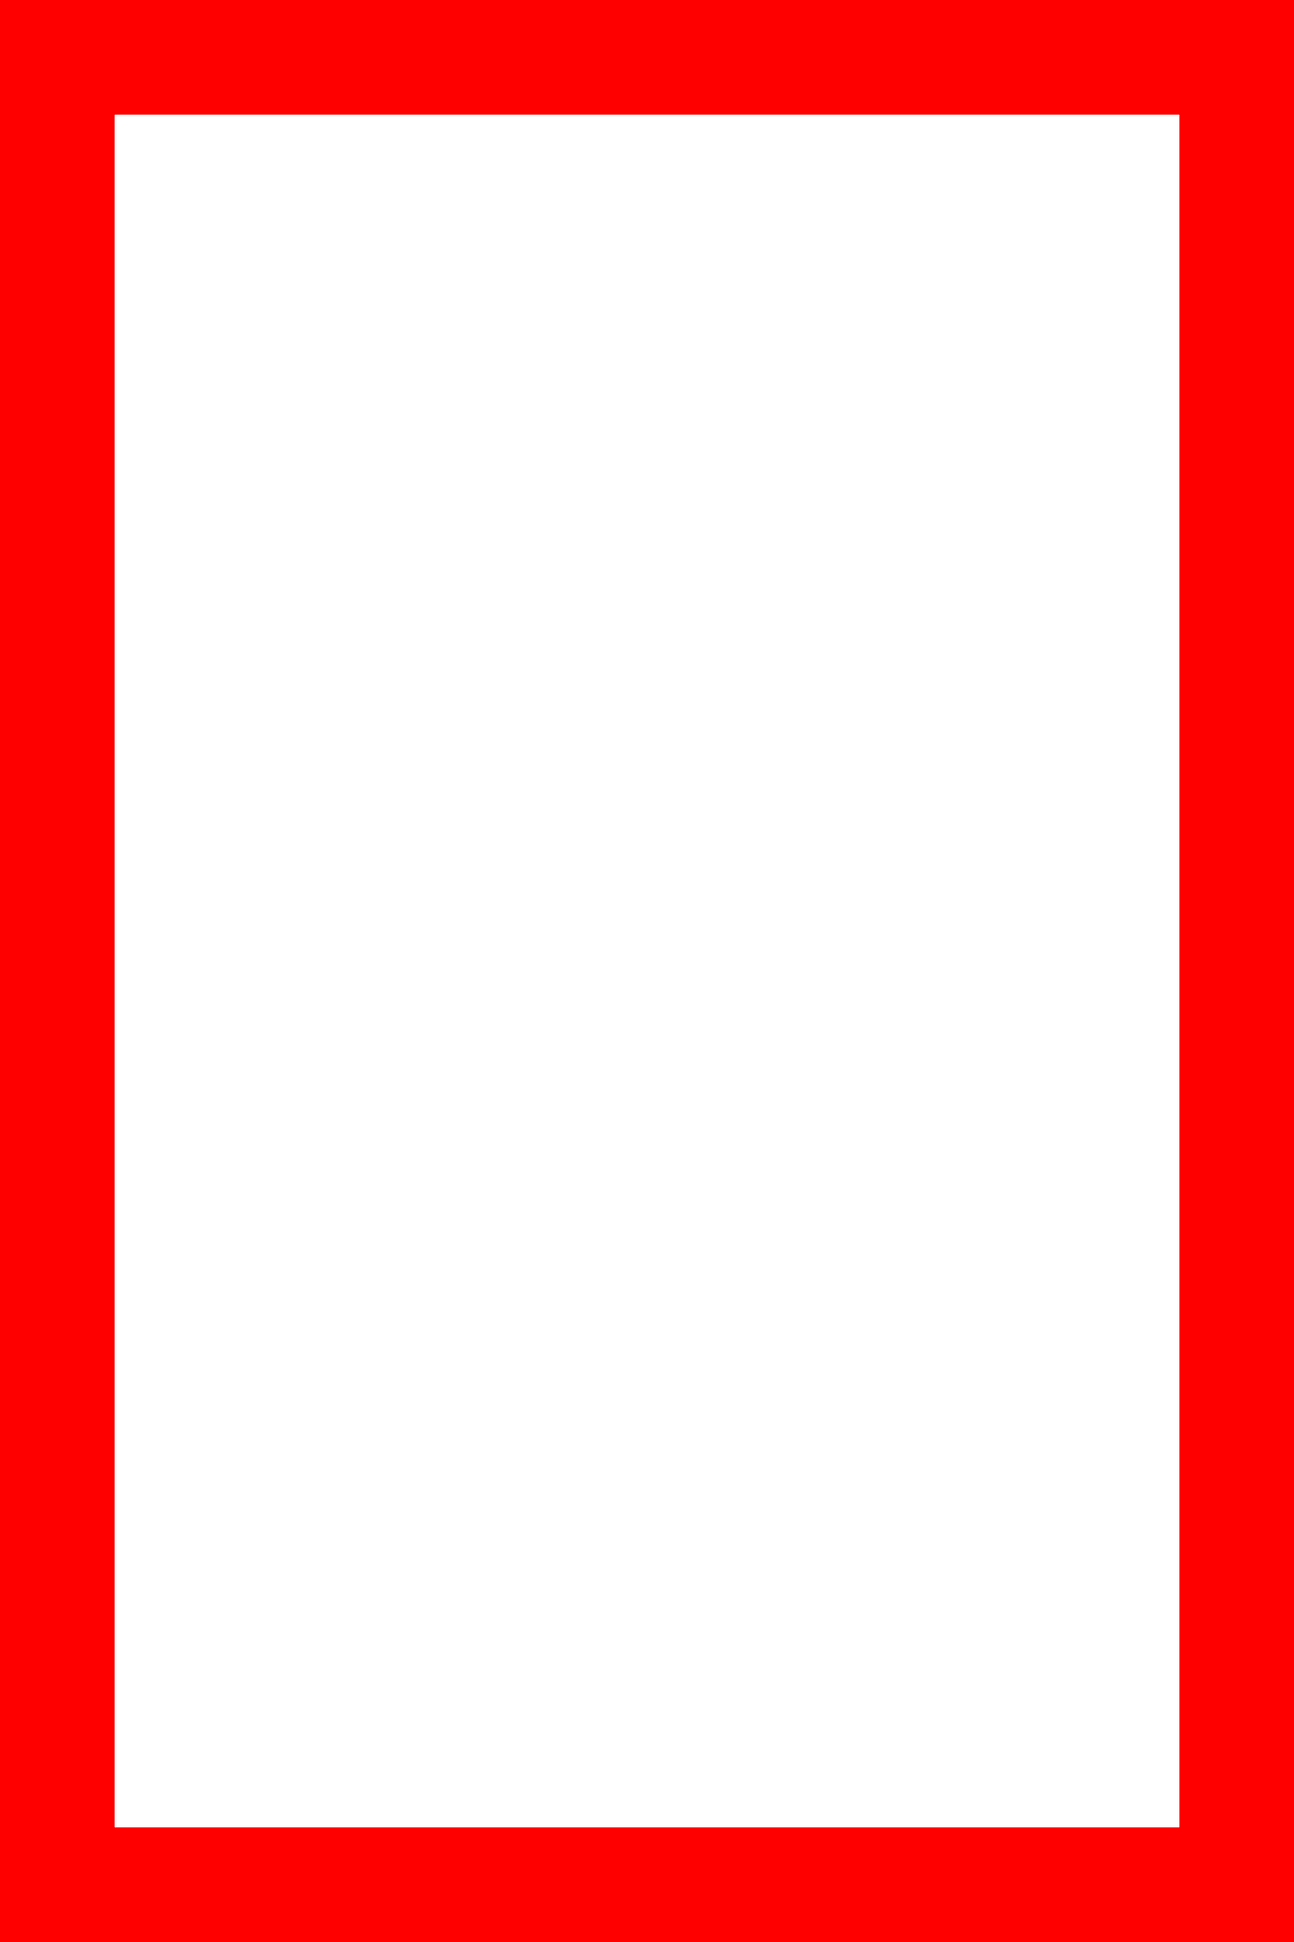
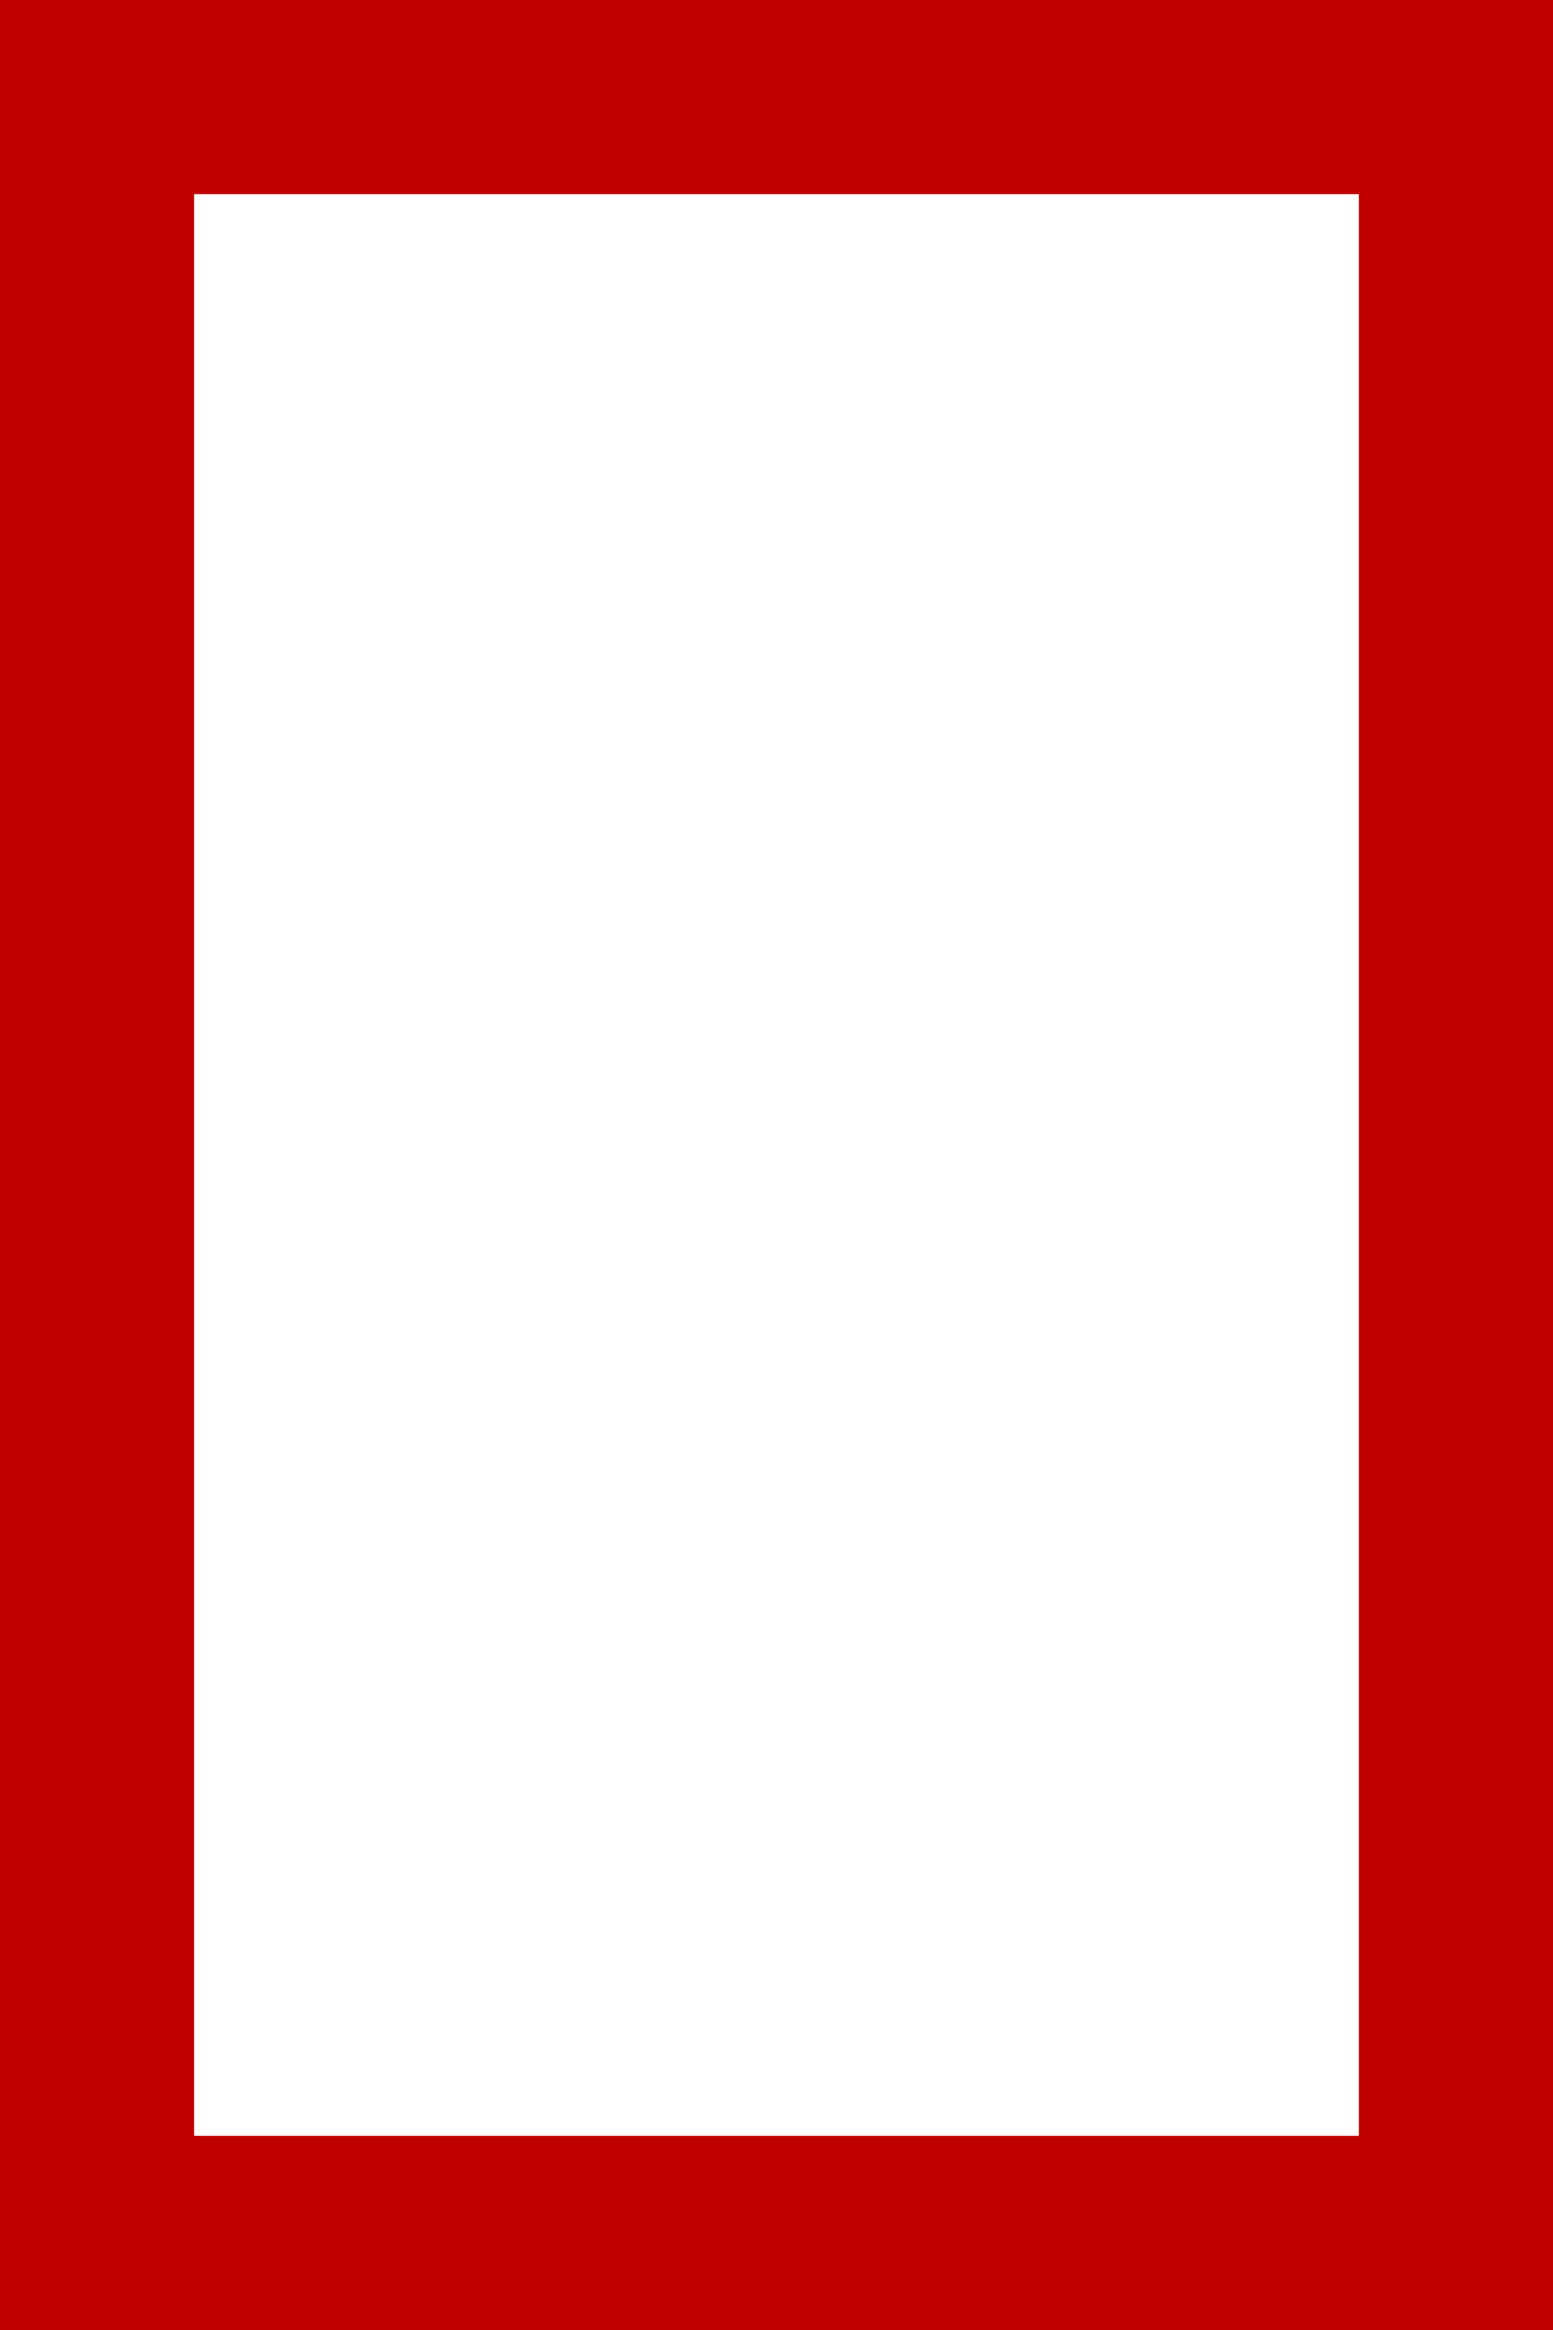
フレーム選択機能実装

diff --git a/src/components/modules/CameraApp.tsx b/src/components/modules/CameraApp.tsx
@@ -9,7 +9,14 @@ import Modal from '@mui/material/Modal';
 import Grid from '@mui/material/Unstable_Grid2';
 import { ThemeProvider, createTheme } from '@mui/material/styles';
 import React, { useEffect, useRef, useState } from 'react';
-import frame from '../../frame/frame-red.png';
+import frameBlue from '../../frame/frame-blue.png';
+import frameGreen from '../../frame/frame-green.png';
+import framePurple from '../../frame/frame-purple.png';
+import frameRed from '../../frame/frame-red.png';
+import frameYellow from '../../frame/frame-yellow.png';
+import Carousel from './Carousel';
+
+
 
 const theme = createTheme({
   palette: {
@@ -27,6 +34,15 @@ const CameraApp: React.FC = () => {
   const [isModalOpen, setIsModalOpen] = useState<boolean>(false);
   const videoRef = useRef<HTMLVideoElement>(null);
   const canvasRef = useRef<HTMLCanvasElement>(null);
+  const images = [
+      frameRed,
+      frameBlue,
+      frameGreen,
+      framePurple,
+      frameYellow,
+  ];
+  const [selectedImage, setSelectedImage] = useState<string>(images[0]);
+
 
   useEffect(() => {
     const getDevices = async () => {
@@ -75,7 +91,7 @@ const CameraApp: React.FC = () => {
       const context = canvasRef.current.getContext('2d');
       if (context) {
         const FrameImg = new Image();
-        FrameImg.src = frame;
+        FrameImg.src = selectedImage;
         canvasRef.current.width = videoRef.current.videoWidth;
         canvasRef.current.height = videoRef.current.videoHeight;
         context.drawImage(videoRef.current, 0, 0, canvasRef.current.width, canvasRef.current.height);
@@ -109,12 +125,16 @@ const CameraApp: React.FC = () => {
     setIsModalOpen(false);
   };
 
+  const drawImageOnCanvas = (imageSrc: string) => {
+    setSelectedImage(imageSrc);
+  };
+
   return (
     <ThemeProvider theme={theme}>
       <div className='camera-container'>
         <div className='video-container'>
           <video ref={videoRef} autoPlay playsInline style={{ width: '100%' }} />
-          <img src={frame} alt='frame-img' />
+          <img src={selectedImage} alt='frame-img' />
         </div>
         <div className='camera-control-container'>
           <Box sx={{ flexGrow: 1, textAlign: 'center' }}>
@@ -129,6 +149,9 @@ const CameraApp: React.FC = () => {
             </Grid>
           </Box>
         </div>
+        <Box sx={{ mt: 2, textAlign: 'center'  }}>
+            <Carousel images={images} onImageSelect={drawImageOnCanvas} />
+          </Box>
         <canvas ref={canvasRef} style={{ display: 'none' }} />
         <Modal open={isModalOpen} onClose={handleCloseModal}>
           <Box sx={{

diff --git a/src/components/modules/Carousel.tsx b/src/components/modules/Carousel.tsx
@@ -12,13 +12,13 @@ const Carousel: React.FC<CarouselProps> = ({ images, onImageSelect }) => {
     dots: true,
     infinite: false,
     speed: 500,
-    slidesToShow: 4,
+    slidesToShow: 5,
     slidesToScroll: 1,
     responsive: [
       {
         breakpoint: 1024,
         settings: {
-          slidesToShow: 3,
+          slidesToShow: 5,
           slidesToScroll: 1,
           infinite: true,
           dots: true,
@@ -27,14 +27,14 @@ const Carousel: React.FC<CarouselProps> = ({ images, onImageSelect }) => {
       {
         breakpoint: 600,
         settings: {
-          slidesToShow: 2,
+          slidesToShow: 5,
           slidesToScroll: 1,
         },
       },
       {
         breakpoint: 480,
         settings: {
-          slidesToShow: 1,
+          slidesToShow: 5,
           slidesToScroll: 1,
         },
       },
@@ -42,11 +42,11 @@ const Carousel: React.FC<CarouselProps> = ({ images, onImageSelect }) => {
   };
 
   return (
-    <div style={{ margin: '0 auto', width: '80%' }}>
+    <div style={{ margin: '0 auto', width: '100%' }}>
       <Slider {...settings}>
         {images.map((image, index) => (
           <div key={index} onClick={() => onImageSelect(image)}>
-            <img src={image} alt={`carousel-${index}`} style={{ width: '100%' }} />
+            <img src={image} alt={`carousel-${index}`} style={{margin: '0 auto', width: '70%' }} />
           </div>
         ))}
       </Slider>

diff --git a/src/App.tsx b/src/App.tsx
@@ -14,9 +14,9 @@ const App: React.FC = () => {
   return (
     <ThemeProvider theme={theme}>
       <Header />
-      <Box sx={{ flexGrow: 1}}>
+      <Box sx={{ flexGrow: 1, width: '100%'}}>
         <Grid container justifyContent="center">
-          <Grid>
+          <Grid xs={12}>
             <CameraApp/>
           </Grid>
         </Grid>

diff --git a/src/css/camera.css b/src/css/camera.css
@@ -1,3 +1,7 @@
+.camera-container{
+    max-width: 100%;
+}
+
 .camera-control-container{
     position: relative;
     padding: 2.5vh 2vw;
